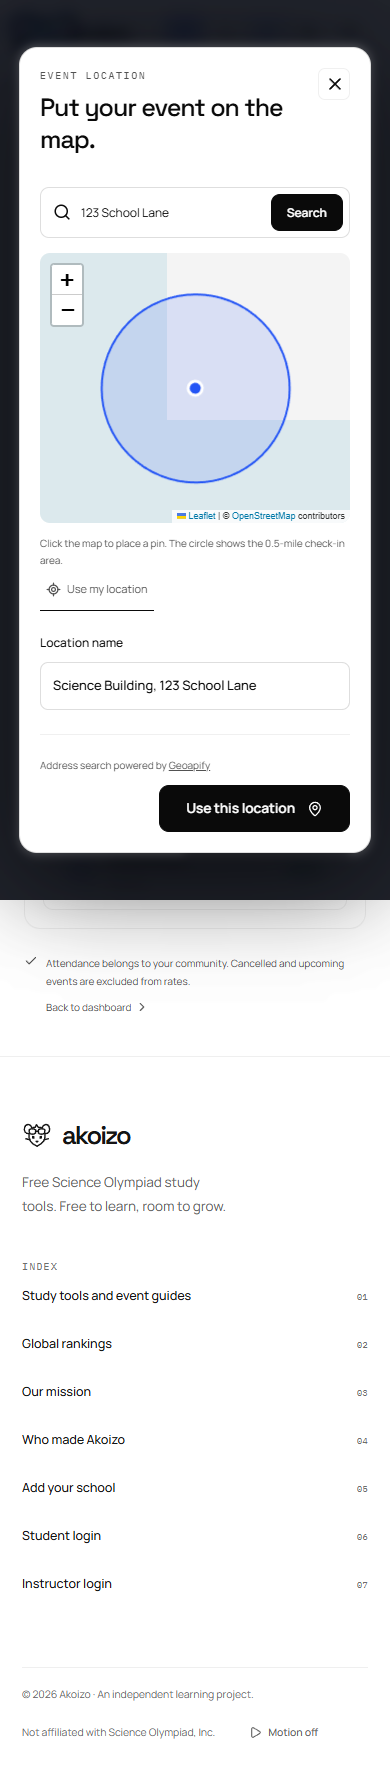
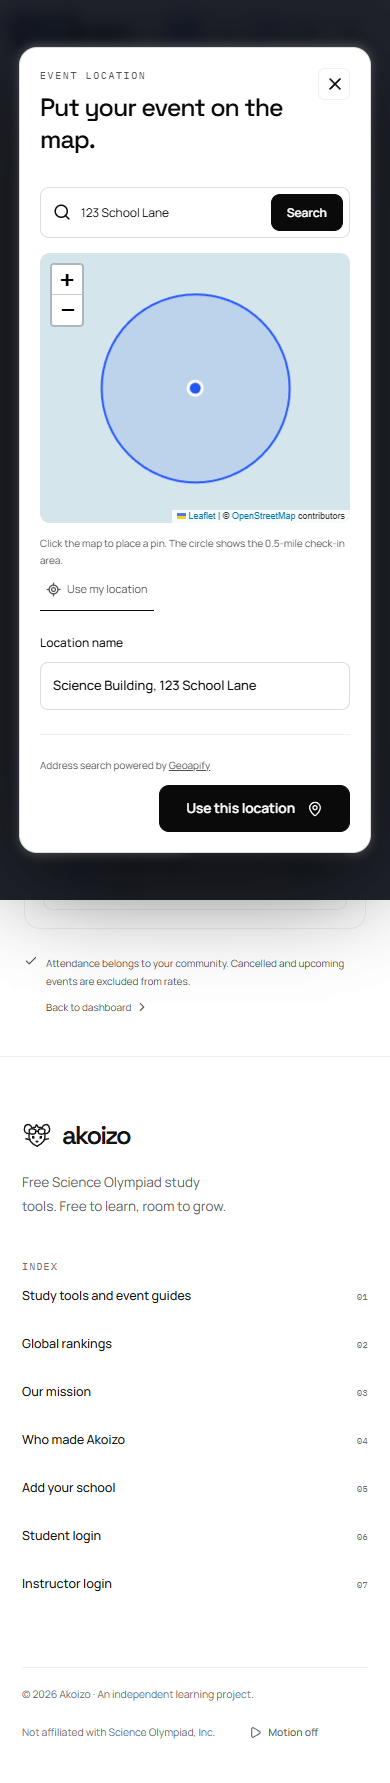
Added wifi based location checks to help allow chromebook tracking

Changed region(s): [[0.4308, 0.1234, 0.9231, 0.2468]]

diff --git a/src/components/attendance.tsx b/src/components/attendance.tsx
@@ -20,7 +20,53 @@ import {
 import { useAuth, authMessage } from './auth-context';
 import { AccountGate } from './account-gate';
 import { AttendanceMap, type WorkshopLocation } from './attendance-map';
-import { workshopStatus, type AttendanceData, type Workshop } from '@/lib/attendance';
+import {
+  ATTENDANCE_ACCURACY_ALLOWANCE_METERS,
+  workshopStatus,
+  type AttendanceData,
+  type Workshop,
+} from '@/lib/attendance';
+
+const LOCATION_HELP =
+  'On a Chromebook, turn on Settings → Security and privacy → Location access and make sure Wi-Fi is on. On a phone, turn on Location Services for your browser.';
+
+function getPosition(options: PositionOptions) {
+  return new Promise<GeolocationPosition>((resolve, reject) =>
+    navigator.geolocation.getCurrentPosition(resolve, reject, options),
+  );
+}
+
+// Approximate location is enough. Ask for a fast network (Wi-Fi/IP) fix first, which is what
+// Chromebooks and laptops provide; fall back to GPS when that fails or is very rough.
+async function locateForCheckIn() {
+  let quick: GeolocationPosition | null = null;
+  let quickError: GeolocationPositionError | null = null;
+  try {
+    // maximumAge 0: a student who moves closer and retries must get a new fix, not a cached one.
+    quick = await getPosition({ enableHighAccuracy: false, maximumAge: 0, timeout: 12000 });
+    if (quick.coords.accuracy <= ATTENDANCE_ACCURACY_ALLOWANCE_METERS) return quick;
+  } catch (e) {
+    quickError = e as GeolocationPositionError;
+    if (quickError.code === 1) throw locationError(quickError);
+  }
+  try {
+    const precise = await getPosition({ enableHighAccuracy: true, maximumAge: 0, timeout: 20000 });
+    return quick && quick.coords.accuracy < precise.coords.accuracy ? quick : precise;
+  } catch (e) {
+    if (quick) return quick;
+    throw locationError((e as GeolocationPositionError) ?? quickError);
+  }
+}
+
+function locationError(e: GeolocationPositionError | null) {
+  return new Error(
+    e?.code === 1
+      ? `Location access is blocked. Allow location for this site (click the icon at the left of the address bar). ${LOCATION_HELP}`
+      : e?.code === 3
+        ? `Finding your location took too long. Check that Wi-Fi is on and try again. ${LOCATION_HELP}`
+        : `Your device could not find its location. ${LOCATION_HELP}`,
+  );
+}
 import './attendance.css';
 
 function workshopDate(w: Workshop) {
@@ -167,8 +213,8 @@ function WorkshopForm({ onClose, onSaved }: { onClose: () => void; onSaved: () =
           <div className="att-info">
             <ShieldCheck size={21} />
             <p>
-              Students need the code and a precise browser location within <strong>0.5 mile</strong>{' '}
-              of your pin, during the check-in window.
+              Students need the code and an approximate browser location within{' '}
+              <strong>0.5 mile</strong> of your pin, during the check-in window.
             </p>
           </div>
           <p className="att-help">
@@ -327,22 +373,8 @@ export function AttendanceWorkspace({ embedded = false }: { embedded?: boolean }
         throw new Error(
           'Location is unavailable in this browser. Please use a browser that supports location.',
         );
-      const position = await new Promise<GeolocationPosition>((resolve, reject) =>
-        navigator.geolocation.getCurrentPosition(
-          resolve,
-          (e) =>
-            reject(
-              new Error(
-                e.code === 1
-                  ? 'Allow location access in your browser to check in.'
-                  : e.code === 3
-                    ? 'Location timed out. Move near a window and try again.'
-                    : 'Your location could not be determined. Enable precise location and try again.',
-              ),
-            ),
-          { enableHighAccuracy: true, maximumAge: 0, timeout: 20000 },
-        ),
-      );
+      const position = await locateForCheckIn();
+      const age = Date.now() - position.timestamp;
       const result = await request<{ alreadyRecorded: boolean }>('/api/attendance', {
         method: 'POST',
         body: JSON.stringify({
@@ -351,6 +383,9 @@ export function AttendanceWorkspace({ embedded = false }: { embedded?: boolean }
           latitude: position.coords.latitude,
           longitude: position.coords.longitude,
           accuracy: position.coords.accuracy,
+          // Device-relative age; some browsers report timestamps on another clock base, so
+          // implausible values (negative or over a day) are treated as a fresh fix.
+          ageMs: Number.isFinite(age) && age >= 0 && age < 86400000 ? age : 0,
           timestamp: position.timestamp,
         }),
       });
@@ -873,8 +908,8 @@ export function AttendanceWorkspace({ embedded = false }: { embedded?: boolean }
                       <div>
                         <strong>Right place. Right time.</strong>
                         <p>
-                          A valid code, the teacher’s check-in window, and a precise location within
-                          0.5 mile are required.
+                          A valid code, the teacher’s check-in window, and an approximate location
+                          within about 0.5 mile are required.
                         </p>
                       </div>
                     </div>

diff --git a/tests/attendance.test.ts b/tests/attendance.test.ts
@@ -9,7 +9,13 @@ import {
   manageWorkshop,
   deleteWorkshop,
 } from '../src/lib/attendance-service.ts';
-import { ATTENDANCE_RADIUS_METERS, distanceMeters, workshopStatus } from '../src/lib/attendance.ts';
+import {
+  ATTENDANCE_ACCURACY_ALLOWANCE_METERS,
+  ATTENDANCE_RADIUS_METERS,
+  distanceMeters,
+  withinAttendanceRange,
+  workshopStatus,
+} from '../src/lib/attendance.ts';
 
 async function setup() {
   const f = attendanceFixture();
@@ -144,23 +150,56 @@ test('server rejects early, late and cancelled check-ins', async () => {
   await assert.rejects(checkIn(f.db, f.student, f.body()), /outside/);
   f.raw.close();
 });
-test('half-mile geofence accounts for accuracy and rejects stale, invalid or imprecise positions', async () => {
+test('half-mile geofence accepts approximate positions and rejects far, stale or invalid ones', async () => {
   const f = await setup();
   await assert.rejects(checkIn(f.db, f.student, { ...f.body(), latitude: 27 }), /0.5 mile/);
+  // ~1.67 km away: too far with a precise fix, but within reach of a rough Wi-Fi fix.
   await assert.rejects(
-    checkIn(f.db, f.student, { ...f.body(), latitude: 26.007, accuracy: 100 }),
+    checkIn(f.db, f.student, { ...f.body(), latitude: 26.015, accuracy: 100 }),
     /0.5 mile/,
   );
-  await assert.rejects(checkIn(f.db, f.student, { ...f.body(), accuracy: 500 }), /too approximate/);
+  // Huge reported uncertainty only earns the capped allowance.
+  await assert.rejects(
+    checkIn(f.db, f.student, { ...f.body(), latitude: 26.03, accuracy: 50000 }),
+    /0.5 mile/,
+  );
+  await assert.rejects(
+    checkIn(f.db, f.student, { ...f.body(), accuracy: -1 }),
+    /could not be read/,
+  );
+  await assert.rejects(
+    checkIn(f.db, f.student, { ...f.body(), accuracy: '5' }),
+    /could not be read/,
+  );
   await assert.rejects(checkIn(f.db, f.student, { ...f.body(), latitude: '26' }), /valid map/);
   await assert.rejects(checkIn(f.db, f.student, { ...f.body(), longitude: NaN }), /valid map/);
   await assert.rejects(
-    checkIn(f.db, f.student, { ...f.body(), timestamp: Date.now() - 120000 }),
+    checkIn(f.db, f.student, { ...f.body(), timestamp: Date.now() - 180000 }),
     /expired/,
   );
   await assert.rejects(checkIn(f.db, f.student, { ...f.body(), timestamp: NaN }), /expired/);
+  await assert.rejects(checkIn(f.db, f.student, { ...f.body(), ageMs: 180000 }), /expired/);
+  await assert.rejects(checkIn(f.db, f.student, { ...f.body(), ageMs: -5 }), /expired/);
+  // Device age wins over a skewed device clock (Chromebook clock 10 minutes off).
+  const skewed = await checkIn(f.db, f.student, {
+    ...f.body(),
+    latitude: 26.015,
+    accuracy: 1500,
+    timestamp: Date.now() - 600000,
+    ageMs: 2000,
+  });
+  assert.equal(skewed.alreadyRecorded, false);
   assert.equal(distanceMeters(26, -80, 26, -80), 0);
   assert.ok(distanceMeters(26, -80, 26.007, -80) < ATTENDANCE_RADIUS_METERS);
+  assert.ok(withinAttendanceRange(ATTENDANCE_RADIUS_METERS, 0));
+  assert.ok(!withinAttendanceRange(ATTENDANCE_RADIUS_METERS + 1, 0));
+  assert.ok(withinAttendanceRange(2000, 1500));
+  assert.ok(
+    !withinAttendanceRange(
+      ATTENDANCE_RADIUS_METERS + ATTENDANCE_ACCURACY_ALLOWANCE_METERS + 1,
+      1e6,
+    ),
+  );
   f.raw.close();
 });
 test('code rotation invalidates old codes and cross-school management is denied', async () => {

diff --git a/src/lib/attendance-service.ts b/src/lib/attendance-service.ts
@@ -2,8 +2,9 @@ import { randomBytes, randomUUID } from 'node:crypto';
 import { AppError, type Profile } from './domain.ts';
 import type { Database } from './school-service.ts';
 import {
-  ATTENDANCE_RADIUS_METERS,
+  ATTENDANCE_LOCATION_MAX_AGE_MS,
   distanceMeters,
+  withinAttendanceRange,
   type AttendanceData,
   type Workshop,
 } from './attendance.ts';
@@ -170,27 +171,27 @@ export async function checkIn(db: Database, profile: Profile, body: Record<strin
     throw new AppError(409, 'Check-in is outside the teacher’s attendance window.');
   const lat = coordinate(body.latitude, 90),
     lon = coordinate(body.longitude, 180);
-  if (
-    typeof body.accuracy !== 'number' ||
-    !Number.isFinite(body.accuracy) ||
-    body.accuracy < 0 ||
-    body.accuracy > 200
-  )
-    throw new AppError(
-      400,
-      'Your location is too approximate. Enable precise location and try again.',
-    );
-  if (
-    typeof body.timestamp !== 'number' ||
-    !Number.isFinite(body.timestamp) ||
-    Math.abs(Date.now() - body.timestamp) > 60000
-  )
+  // Accuracy is required but any finite value is accepted; withinAttendanceRange caps its credit.
+  const accuracy =
+    typeof body.accuracy === 'number' && Number.isFinite(body.accuracy) && body.accuracy >= 0
+      ? body.accuracy
+      : null;
+  if (accuracy === null)
+    throw new AppError(400, 'Your location could not be read. Please try checking in again.');
+  // Prefer ageMs (measured on the device, immune to clock skew); older clients send a timestamp.
+  const age =
+    typeof body.ageMs === 'number' && Number.isFinite(body.ageMs)
+      ? body.ageMs
+      : typeof body.timestamp === 'number' && Number.isFinite(body.timestamp)
+        ? Math.abs(Date.now() - body.timestamp)
+        : NaN;
+  if (!(age >= 0 && age <= ATTENDANCE_LOCATION_MAX_AGE_MS))
     throw new AppError(400, 'Your location has expired. Please try checking in again.');
   const distance = distanceMeters(lat, lon, Number(w.latitude), Number(w.longitude));
-  if (distance + body.accuracy > ATTENDANCE_RADIUS_METERS)
+  if (!withinAttendanceRange(distance, accuracy))
     throw new AppError(
       403,
-      'We could not confirm you are within 0.5 mile of the event. Move closer or enable precise location and try again.',
+      'We could not confirm you are within 0.5 mile of the event. Connect to the event’s Wi-Fi or move closer, then try again.',
     );
   // Recheck time, code, cancellation and membership in the same atomic statement as the insert.
   const now = new Date().toISOString();
@@ -204,7 +205,7 @@ export async function checkIn(db: Database, profile: Profile, body: Record<strin
           profile.id,
           now,
           distance,
-          body.accuracy,
+          accuracy,
           profile.id,
           id,
           profile.schoolId,

diff --git a/src/lib/attendance.ts b/src/lib/attendance.ts
@@ -1,4 +1,16 @@
 export const ATTENDANCE_RADIUS_METERS = 804.672;
+// Chromebooks and laptops locate by Wi-Fi/IP, so their fixes are often hundreds of meters to a
+// few kilometers off. We only need approximate presence: a fix counts when its uncertainty circle
+// reaches the event radius, with the reported uncertainty credited up to this cap (1 mile).
+export const ATTENDANCE_ACCURACY_ALLOWANCE_METERS = 1609.344;
+// Maximum age of a location fix, measured on the student's device so clock skew does not matter.
+export const ATTENDANCE_LOCATION_MAX_AGE_MS = 120000;
+export function withinAttendanceRange(distance: number, accuracy: number) {
+  return (
+    distance <=
+    ATTENDANCE_RADIUS_METERS + Math.min(Math.max(accuracy, 0), ATTENDANCE_ACCURACY_ALLOWANCE_METERS)
+  );
+}
 export type Workshop = {
   id: string;
   title: string;
